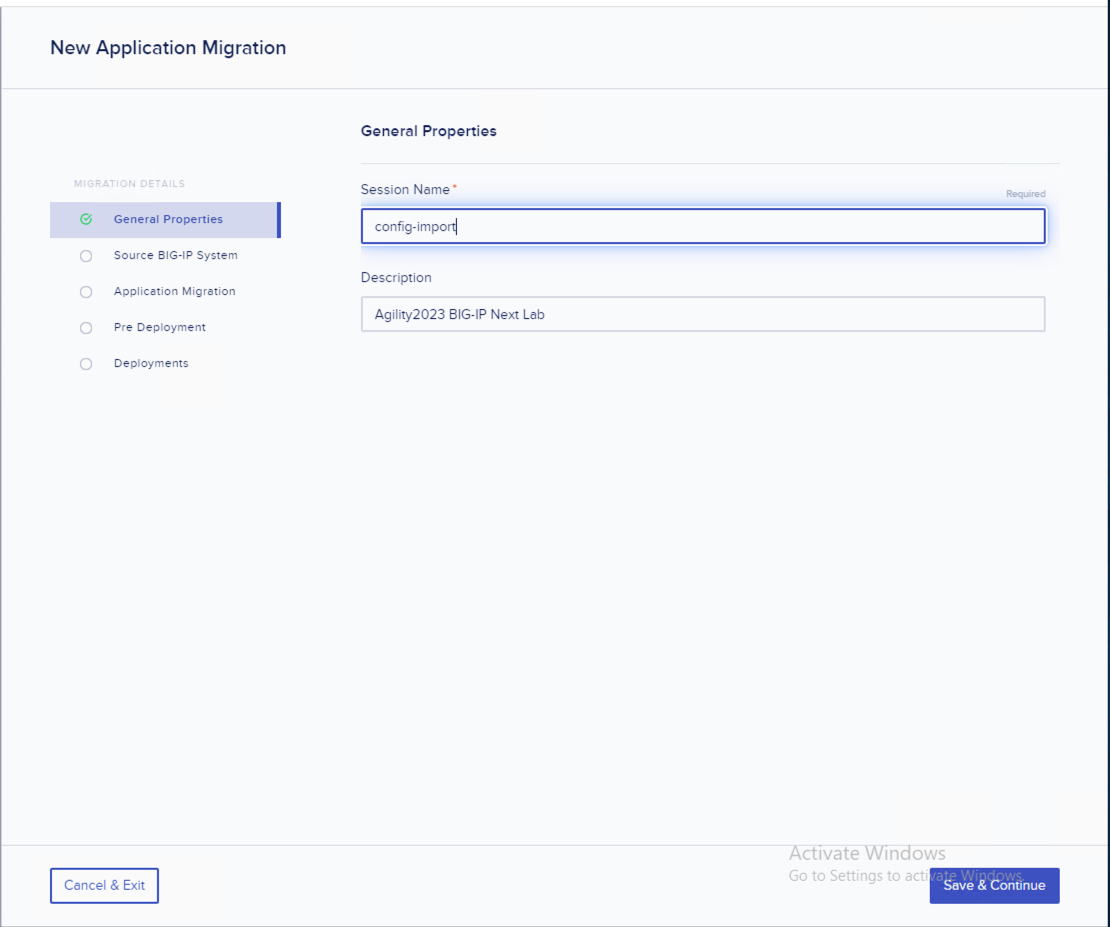
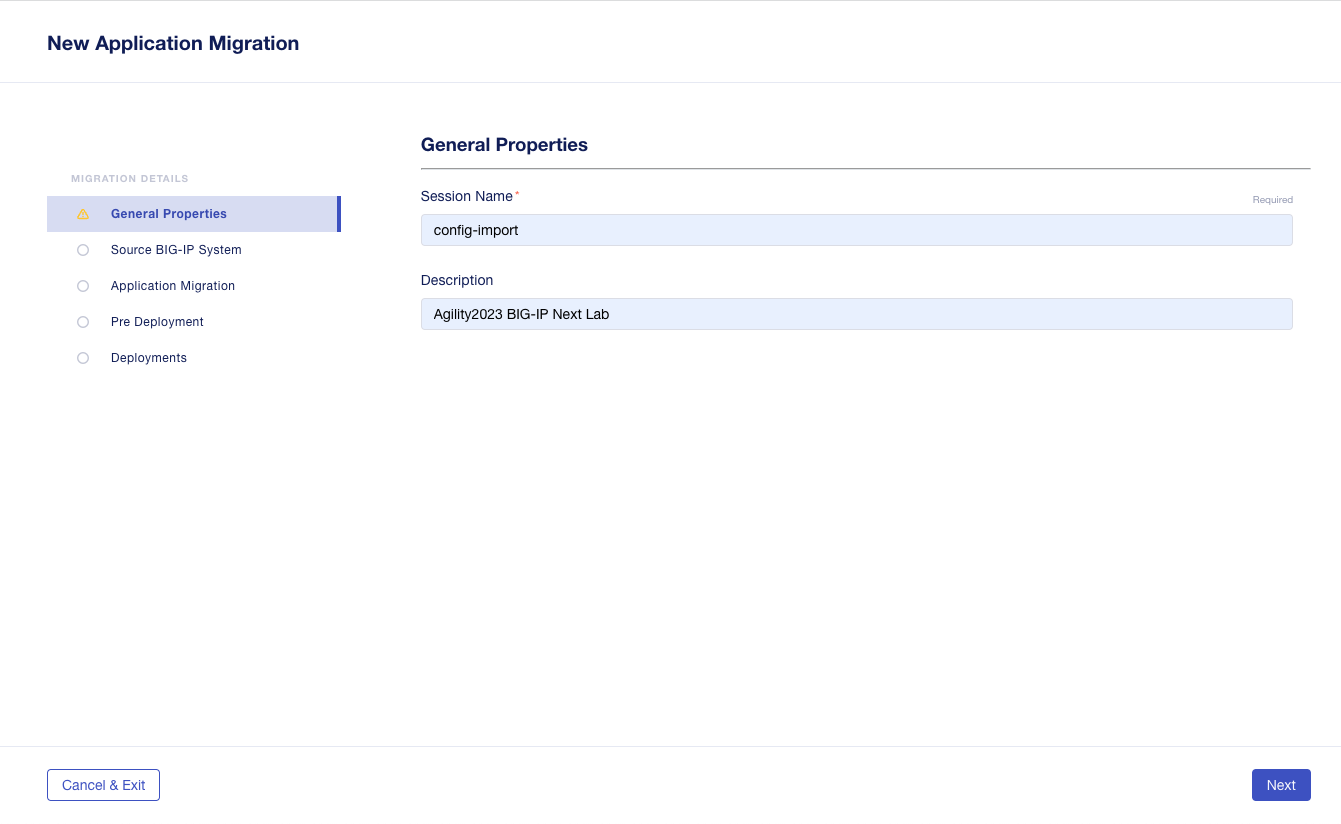
updated-sept12

diff --git a/docs/class1/module4/lab1.rst b/docs/class1/module4/lab1.rst
@@ -4,13 +4,10 @@ Lab 4.1 - Import App from UCS
 
  **Login to BIG-IP Next Central Manager in UDF**
  
-  **Preferred Method:** Navigate to your UDF deployment and select the "GUI" ACCESS method for the "BIG-IP Next Central Manager" and login with the username/password provided under DETAILS.
+  Navigate to your UDF deployment and select the "GUI" ACCESS method for the "BIG-IP Next Central Manager" and login with the username/password provided under DETAILS.
   
-   .. image:: ./cm_login.png 
-
-  Option 2: Use RDP access method on Windows Jump Host
-   .. image:: ./rdp-access-windows.png
-        :scale: 25%
+   .. image:: ./cm_login.png
+        :scale: 25% 
 
 After logging into BIG-IP Next CM, click on  **"Application Workspace"** 
 
@@ -27,7 +24,7 @@ Select **"New Migration"** and enter the following information in General Propoe
 * Session Name - **config-import**
 * Description - **Agility2023 BIG-IP Next Lab**
 
-Click **"Save & Continue"**
+Click **"Next"**
 
 .. image:: ./lab4-new-app-migration.png
  :scale: 25%
